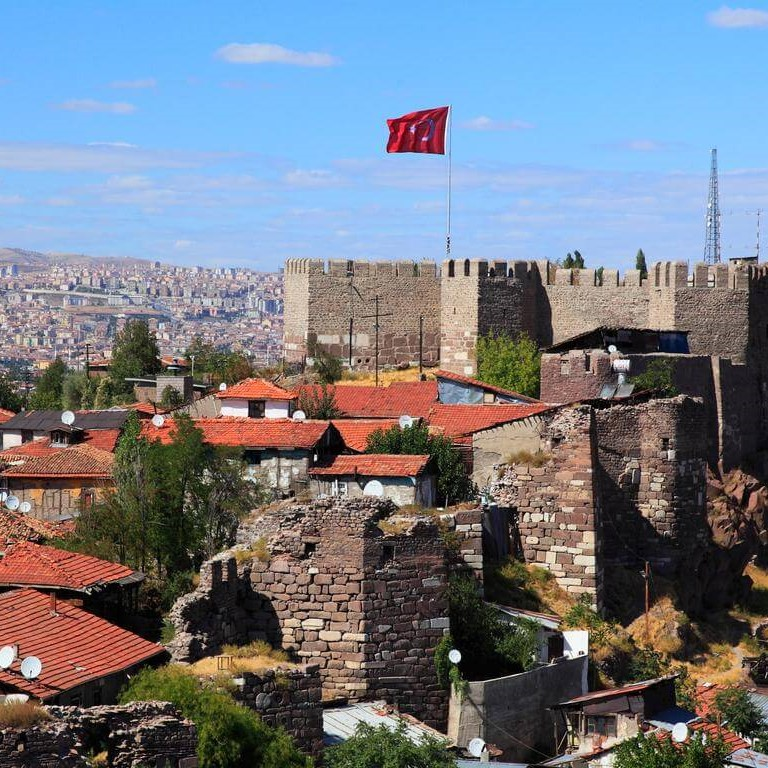
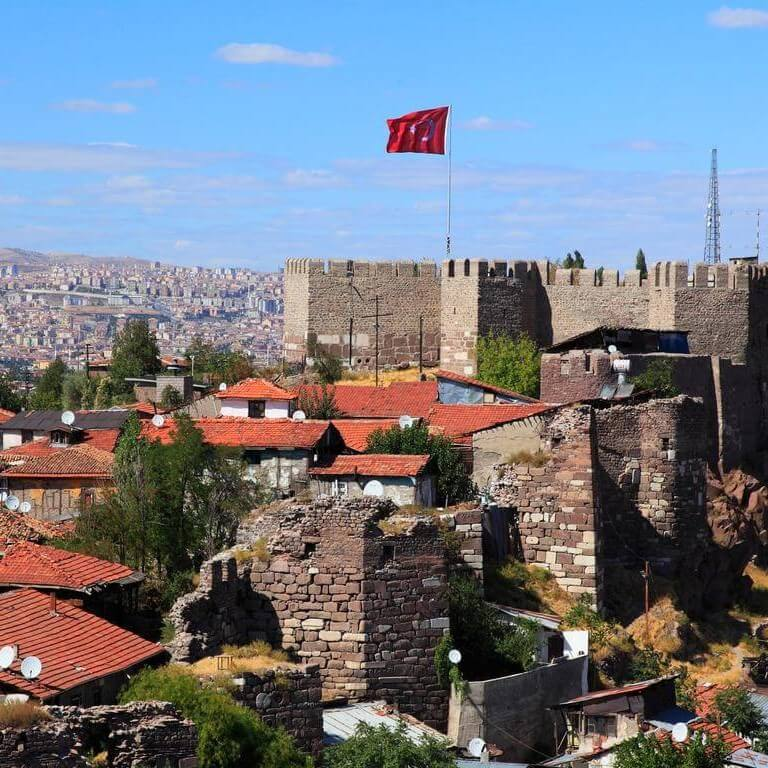
improved "Discover" page view. added webp images. created last modifed.js and visitor count.js

diff --git a/chamber/discover.html b/chamber/discover.html
@@ -25,16 +25,7 @@
     <header>
         <section class="hero">
             <div class="hero-container">
-                <img id="hero-img" src="images/ankara-header.jpg" alt="picture of Abant Golu">
-                <!-- <section id="hero-info">
-                    <p>Unlock Ankara's tech prowess! 13% of Turkey's high-tech products originate here,
-                        securing second place nationally. Yet, advanced tech makes up only 5.4% of local manufacturing.
-                        Join
-                        us
-                        in boosting Ankara's tech standing. Elevate your business with the Ankara Chamber of Commerce.
-                    </p>
-                </section> -->
-                <!-- <span class="cta-button">Let's Start!</span> -->
+                <img id="hero-img" src="images/ankara-header.webp" alt="picture of Abant Golu">
             </div>
         </section>
 
@@ -49,8 +40,8 @@
         </nav>
         <button id="hamburger-button">&#8801;</button>
     </header>
-    <main id="discover-contaier">
-        <div class="left">
+    <main id="discover-container">
+        <div class="main-content">
             <h1>
                 Discover Ankara
             </h1>
@@ -63,7 +54,7 @@
                     <h2>
                         K&#305;z&#305;lay Business District
                     </h2>
-                    <img src="images/kizilay.jpg" width="530" alt="kizilay">
+                    <img src="images/kizilay.webp" width="530" alt="kizilay">
                     <p>
                         the vibrant heartbeat of Ankara's commerce in K&#305;z&#305;lay. This central district is a
                         thriving
@@ -71,7 +62,7 @@
                         Dive
                         into the energy of K&#305;z&#305;lay and discover endless opportunities for growth.
                     </p>
-                    <img class="info-img" src="images/turkey.jpg" width="300" alt="info - image">
+                    <img class="info-img" src="images/turkey.webp" width="300" alt="info - image">
                     <p class="info-p">
                         Kizilay Statistical Data
                     </p>
@@ -80,14 +71,14 @@
                     <h2>
                         Çankaya Corporate Zone
                     </h2>
-                    <img src="images/cankaya.jpg" width="530" alt="kizilay">
+                    <img src="images/cankaya.webp" width="530" alt="kizilay">
                     <p>
                         This district blends modernity with a touch of
                         sophistication, making it an ideal location for corporate ventures. With a mix of high-end
                         offices
                         and serene surroundings, Çankaya promises a refined environment for your business to flourish.
                     </p>
-                    <img class="info-img" src="images/turkey.jpg" width="300" alt="info - image">
+                    <img class="info-img" src="images/turkey.webp" width="300" alt="info - image">
                     <p class="info-p">
                         Çankaya Statistical Data
                     </p>
@@ -97,7 +88,7 @@
                     <h2>
                         Altındağ HQ
                     </h2>
-                    <img src="images/altindag.jpg" width="530" alt="kizilay">
+                    <img src="images/altindag.webp" width="530" alt="kizilay">
                     <p>
                         Immerse yourself in the rich history of commerce at Alt&#305;ndağ. This district seamlessly
                         integrates
@@ -105,20 +96,58 @@
                         innovative
                         enterprises, creating a unique atmosphere where the past meets the future of commerce.
                     </p>
-                    <img class="info-img" src="images/turkey.jpg" width="300" alt="info - image">
+                    <img class="info-img" src="images/turkey.webp" width="300" alt="info - image">
                     <p class="info-p">
                         Altındağ Statistical Data
                     </p>
                 </div>
             </div>
         </div>
-
-        <div class="right">
+        <div class="sidebar">
             <h1>
-                News &amp; Statistics
+                News
             </h1>
+            <div class="news">
+                <div class="pres-news">
+                    <img src="images/president-chamber.webp" width="300" alt="president of chamber">
+                    <p class="info-news">
+                        Watch the recap of the last ATO Conference
+                    </p>
+                </div>
+                <div class="pres-news">
+                    <img src="images/acoc100.webp" width="300" alt="Ankara Chamber of Commerce is 100 years old">
+                    <p class="info-news">
+                        Ankara Chamber of Commerce is 100 years old
+                    </p>
+                </div>
+                <div class="pres-news">
+                    <img src="images/brand-meetup.webp" width="300" alt="International Ankara Brand Meetup">
+                    <p class="info-news">
+                        International Ankara Brand Meetup
+                    </p>
+                </div>
+            </div>
+            <h1>
+                Statistics
+            </h1>
+            <div class="statistics">
+                <img src="images/eustats.webp" width="300" alt="EU Stats">
+                <p class="info-stats">
+                    E-Commerce Europe Stats 2021
+                </p>
+            </div>
+            <div class="statistics">
+                <img src="images/Womens-employment.webp" width="300" alt="EU Stats">
+                <p class="info-stats">
+                    Women's Employment Stats 2022
+                </p>
+            </div>
+            <div class="visitor">
+                <p>
+                    visitors:
+                </p>
+            </div>
         </div>
-
 
     </main>
 
@@ -160,6 +189,7 @@
     <script src="scripts/getDate.js"></script>
     <script src="scripts/responsiveMenu.js"></script>
     <script src="scripts/darkMode.js"></script>
+    <script src="scripts/sidebarVisitor.js"></script>
 </body>
 
 </html>

diff --git a/chamber/scripts/sidebarVisitor.js b/chamber/scripts/sidebarVisitor.js
@@ -1,0 +1,39 @@
+document.addEventListener('DOMContentLoaded', function () {
+    // Get the current date
+    var currentDate = new Date();
+    var currentDateString = currentDate.toDateString(); // Convert to string for comparison
+
+    // Get the last visit date from localStorage
+    var lastVisitDateString = localStorage.getItem('lastVisitDate');
+
+    if (lastVisitDateString === null) {
+        // First visit
+        displaySidebarMessage("Welcome! Let us know if you have any questions.");
+    } else {
+        var lastVisitDate = new Date(lastVisitDateString);
+        var timeDifference = currentDate - lastVisitDate;
+        var daysDifference = Math.floor(timeDifference / (1000 * 60 * 60 * 24)); // Convert milliseconds to days
+
+        if (daysDifference === 0) {
+            displaySidebarMessage("Back so soon! Awesome!");
+        } else {
+            var message;
+            if (daysDifference === 1) {
+                message = "You last visited 1 day ago.";
+            } else {
+                message = "You last visited " + daysDifference + " days ago.";
+            }
+            displaySidebarMessage(message);
+        }
+    }
+
+    // Store the current visit date in localStorage
+    localStorage.setItem('lastVisitDate', currentDateString);
+});
+
+function displaySidebarMessage(message) {
+    var visitorDiv = document.querySelector('.visitor');
+    var messageElement = document.createElement('p');
+    messageElement.textContent = message;
+    visitorDiv.appendChild(messageElement);
+}

diff --git a/chamber/style/larger.css b/chamber/style/larger.css
@@ -359,6 +359,72 @@
         color: var(--accent1);
     }
 
+    /*-- Discover Page --*/
+
+    #discover-container {
+        width: 100%;
+        display: grid;
+        grid-template-columns: 3fr 1fr;
+        gap: 3rem;
+    }
+
+    .main-content {
+        grid-column: 1 / 2;
+    }
+
+    .main-content h1,
+    h2,
+    p {
+        padding: 2rem;
+    }
+
+    .main-content h2 {
+        color: var(--accent1);
+    }
+
+    .sidebar {
+        grid-column: 2 / 3;
+        background-color: var(--primary-color);
+        height: fit-content;
+    }
+
+    .sidebar h1 {
+        color: var(--accent2);
+        text-align: center;
+    }
+
+    .news {
+        display: flex;
+        flex-direction: column;
+    }
+
+    .pres-news img {
+        padding: 1rem 1rem 0 1rem;
+        margin: 0 0 0 0;
+    }
+
+    .info-news {
+        font-size: 0.9rem;
+        text-align: center;
+        padding: 0.5rem 1rem 0.5rem 1rem;
+    }
+
+    .statistics {
+        display: flex;
+        flex-direction: column;
+    }
+
+    .statistics img {
+        padding: 1rem 1rem 0 1rem;
+        margin: 0 0 0 0;
+    }
+
+    .info-stats {
+        font-size: 0.9rem;
+        text-align: center;
+        padding: 0.5rem 1rem 0.5rem 1rem;
+    }
+
     footer {
         position: relative;
         background: var(--accent1);

diff --git a/chamber/style/base.css b/chamber/style/base.css
@@ -164,32 +164,39 @@ main button:hover {
     background-color: var(--accent1);
 }
 
-main#discover-container {
+/*-- Discover Page--*/
+
+#discover-container {
+    width: 100%;
     display: grid;
-    grid-template-columns: repeat(2, 1fr);
+    grid-template-columns: 3fr 1fr;
+    gap: 3rem;
+}
+
+.main-content {
+    grid-column: 1 / 2;
+}
+
+.main-content h1,
+h2,
+p {
     padding: 2rem;
-    gap: 2rem;
 }
 
-main .left #districts {
-    margin-top: 1rem;
-    display: flex;
-    flex-direction: column;
-    justify-content: center;
-}
-
-main .left #districts h2 {
+.main-content h2 {
     color: var(--accent1);
 }
 
-main .left #districts h2,
-p {
-    padding: 1rem;
+.sidebar {
+    grid-column: 2 / 3;
+    background-color: var(--primary-color);
 }
 
-main .right {
-    grid-column: 3;
+.sidebar h1 {
+    color: var(--accent2);
+    text-align: center;
 }
+
 
 #discovery {
     margin-top: 30px;

diff --git a/chamber/scripts/lastModifiedDate.js b/chamber/scripts/lastModifiedDate.js
@@ -1,0 +1,8 @@
+document.addEventListener('DOMContentLoaded', function () {
+    // Get the last modified date of the current page
+    var lastModifiedDate = document.lastModified;
+
+    // Display the last modified date in the designated element
+    var lastModifiedElement = document.getElementById('lastModified');
+    lastModifiedElement.textContent = "Last Modified: " + lastModifiedDate;
+});
